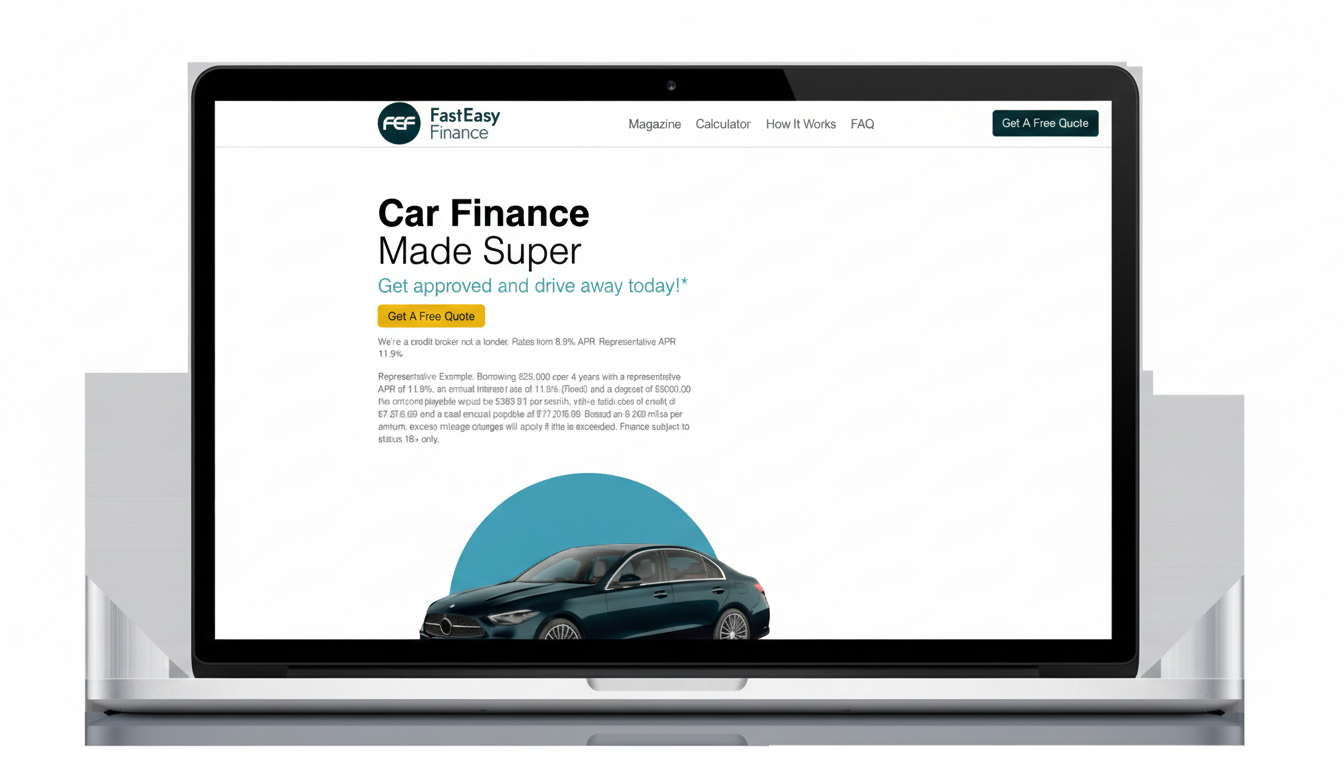
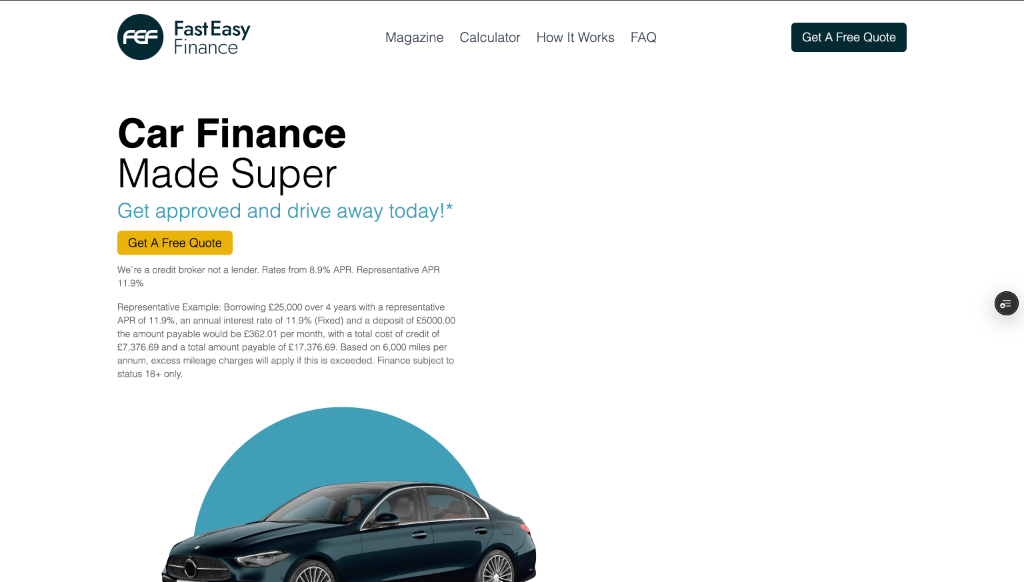
added two more projects

diff --git a/src/lib/projects-data.ts b/src/lib/projects-data.ts
@@ -6,6 +6,8 @@ import rukun from "@/assets/project/rukun.png"
 import elygance from "@/assets/project/elygance.png"
 import msp from "@/assets/project/msp-tech.png"
 import farazPharmacy from "@/assets/project/faraz-pharmacy.jpeg"
+import developerPortfolio from "@/assets/project/developer-portfolio.png"
+import malblogs from "@/assets/project/mal-blogs.png"
 
 export interface ProjectFeature {
     icon: string
@@ -29,6 +31,7 @@ export interface ProjectTechStack {
 export const PROJECT_CATEGORIES = [
     "All",
     "SaaS Platforms",
+    "Web Applications",
     "Business Applications",
     "Desktop Software",
     "Enterprise Solutions",
@@ -765,6 +768,220 @@ export const projectShowcases: ProjectShowcase[] = [
             "Company purchasing workflows are surprisingly varied. Building in configurability from the start would have reduced per-client customization work.",
         ],
         relatedSlugs: ["elygance", "maktab-one"],
+    },
+    {
+        slug: "developer-portfolio",
+        title: "Developer Portfolio",
+        tagline: "High-performance interactive portfolio built with Next.js 15 & React 19",
+        summary:
+            "A modern, high-performance personal portfolio built with Next.js 15 App Router, React 19, and Tailwind CSS. Features dynamic typewriter role animations, an interactive orbital technology stack visualization, theme synchronization, and automated inquiry dispatch via Resend.",
+        image: developerPortfolio,
+        category: "Web Application",
+        categories: ["Web Applications", "Business Applications"],
+        status: "Production",
+        role: "Full-Stack Developer",
+        timeline: "2 months",
+        teamSize: "Solo",
+        platform: "Web",
+        industry: "Developer Tools / Portfolio",
+        links: {
+            demo: "https://mustafatawabbb.vercel.app/",
+            github: "https://github.com/mustafatawab/projects-work/tree/main/my-portfolio",
+            caseStudy: "",
+        },
+        techStack: {
+            frontend: [
+                "Next.js 15",
+                "React 19",
+                "TypeScript",
+                "Tailwind CSS",
+                "Framer Motion",
+                "Radix UI",
+            ],
+            backend: ["Next.js App Router", "Resend API", "Contentful SDK"],
+            database: ["Contentful CMS"],
+            infrastructure: ["Vercel"],
+            tools: ["Git", "GitHub", "pnpm", "ESLint", "PostCSS"],
+        },
+        overview: {
+            what: "An interactive portfolio web application showcasing full-stack capabilities, animated skill ecosystems, project archives, and automated communication workflows.",
+            who: "Hiring managers, engineering leaders, and clients evaluating technical depth in Next.js, React, and modern UI engineering.",
+            businessValue:
+                "Delivers a memorable, polished first impression with 90+ Lighthouse performance scores, fluid micro-interactions, responsive design, and frictionless contact channels.",
+            primaryUsers:
+                "Recruiters, founders, and engineering teams reviewing technical projects, architecture standards, and code quality.",
+        },
+        businessProblem:
+            "Standard developer portfolios often rely on static templates that fail to demonstrate real engineering proficiency, interactive UI craftsmanship, and modern performance optimization standards.",
+        features: [
+            {
+                icon: "Sparkles",
+                title: "Interactive Hero & Orbiting Stack",
+                description:
+                    "Dynamic typewriter headline coupled with an orbital visual display of core technologies rotating smoothly around the developer profile.",
+            },
+            {
+                icon: "Palette",
+                title: "Dual Theme Engine",
+                description:
+                    "Flawless dark and light mode toggle with smooth theme transitions, tailored contrast ratios, and persistent system preference synchronization.",
+            },
+            {
+                icon: "LayoutDashboard",
+                title: "Modular Project & Skills Showcase",
+                description:
+                    "Interactive project gallery and categorized technical capabilities with smooth hover states, tags, and direct repository links.",
+            },
+            {
+                icon: "Mail",
+                title: "Direct Contact System",
+                description:
+                    "Fully functional inquiry workflow powered by Resend API and toast notifications for real-time validation and message dispatch.",
+            },
+        ],
+        architecturePreview: {
+            explanation:
+                "Next.js 15 App Router architecture with React 19 Server and Client Components. Styled using Tailwind CSS with animations powered by Framer Motion. Content and email delivery are handled via Contentful SDK and server-side Resend API routes.",
+        },
+        challengesSolved: [
+            {
+                problem:
+                    "Maintaining smooth 60fps animations across complex circular orbits and typewriter effects without layout shift or Lighthouse degradation.",
+                solution:
+                    "Utilized CSS transforms and hardware-accelerated Framer Motion variants alongside Next.js image optimization, maintaining 90+ Lighthouse scores.",
+            },
+            {
+                problem:
+                    "Preventing theme flicker and hydration mismatches across server-rendered pages during client mount.",
+                solution:
+                    "Integrated Next Themes with class-based transitions and zero-flash layout mounting to guarantee crisp rendering in both modes.",
+            },
+        ],
+        results: [
+            "90+ Lighthouse performance score on desktop and mobile",
+            "Smooth 60fps micro-interactions with zero layout shift",
+            "Automated contact workflow delivering messages via Resend",
+            "Responsive, accessible design across all screen viewports",
+        ],
+        lessonsLearned: [
+            "Combining Framer Motion with CSS custom properties allows for flexible, high-performance interactive animations.",
+            "Structuring modular presentation views keeps App Router layouts clean and easily maintainable.",
+        ],
+        metrics: [
+            { label: "Lighthouse Score", value: "90+" },
+            { label: "Framework", value: "Next.js 15" },
+            { label: "React Version", value: "v19" },
+        ],
+        relatedSlugs: ["maktab-one", "msp-tech-stack"],
+    },
+    {
+        slug: "mal-blogs",
+        title: "MAL Blogs & Finance",
+        tagline: "Dynamic headless blog & car finance platform built with Next.js 14 & Contentful CMS",
+        summary:
+            "A dynamic publishing and automotive finance platform built with Next.js 14 App Router, TypeScript, and Contentful CMS. Features dynamic headless blog delivery with rich-text rendering, interactive finance calculation tools, and optimized responsive layouts.",
+        image: malblogs,
+        category: "Web Application",
+        categories: ["Web Applications", "Business Applications"],
+        status: "Production",
+        role: "Full-Stack Developer",
+        timeline: "2 months",
+        teamSize: "Solo",
+        platform: "Web",
+        industry: "Publishing / Automotive Finance",
+        links: {
+            demo: "https://mal-blogs.vercel.app/",
+            github: "https://github.com/mustafatawab/Nextjs_projects/tree/main/mal-blogs",
+            caseStudy: "",
+        },
+        techStack: {
+            frontend: [
+                "Next.js 14",
+                "React 18",
+                "TypeScript",
+                "Tailwind CSS",
+                "Radix UI",
+                "Lucide React",
+            ],
+            backend: [
+                "Next.js App Router",
+                "Contentful Content Delivery API",
+                "Axios",
+            ],
+            database: ["Contentful Headless CMS"],
+            infrastructure: ["Vercel", "Edge CDN"],
+            tools: ["Git", "GitHub", "ESLint", "PostCSS"],
+        },
+        overview: {
+            what: "A dynamic web platform combining a headless CMS-powered editorial magazine with an interactive car finance estimation suite and customer quotation workflows.",
+            who: "Automotive buyers, UK car finance applicants, and editorial teams publishing market guides and financial advisory articles.",
+            businessValue:
+                "Empowers marketing teams to publish rich editorial content independently via Contentful without code deploys, while converting readers into finance leads with integrated calculator tools.",
+            primaryUsers:
+                "Vehicle buyers researching finance options, and content managers authoring dynamic automotive articles and guides.",
+        },
+        businessProblem:
+            "Financial services often struggle with disconnected marketing blogs and calculation tools. Hardcoding articles creates developer bottlenecks, while off-the-shelf WordPress setups suffer from sluggish load times and poor lead conversion.",
+        features: [
+            {
+                icon: "FileText",
+                title: "Headless Contentful CMS Pipeline",
+                description:
+                    "Dynamic article delivery using Contentful REST API and rich-text rendering for formatted custom embeds, headings, and imagery.",
+            },
+            {
+                icon: "Receipt",
+                title: "Interactive Finance Calculator",
+                description:
+                    "Client-side loan estimator computing representative APR, monthly repayment schedules, deposit amounts, and total payable values in real time.",
+            },
+            {
+                icon: "LayoutDashboard",
+                title: "Dynamic Magazine Hub",
+                description:
+                    "Categorized article feed with responsive card grid layouts, reading metadata, and SEO-friendly slug-based dynamic routing.",
+            },
+            {
+                icon: "Shield",
+                title: "Compliance & Disclosure Architecture",
+                description:
+                    "Integrated financial disclosures, representative loan examples, and regulatory messaging structured for UK finance guidelines.",
+            },
+        ],
+        architecturePreview: {
+            explanation:
+                "Next.js 14 App Router server components query Contentful's Content Delivery API with on-demand ISR (Incremental Static Regeneration). Client components manage finance slider states and Radix UI accordions with zero server latency.",
+        },
+        challengesSolved: [
+            {
+                problem:
+                    "Rendering complex rich-text payloads with embedded assets and custom formatting without breaking React component hierarchy or styling.",
+                solution:
+                    "Built bespoke renderer options for rich-text handling that map custom node types directly to styled Tailwind components.",
+            },
+            {
+                problem:
+                    "Ensuring precise, real-time financial calculations across variable repayment terms and interest brackets with instantaneous user feedback.",
+                solution:
+                    "Engineered an interactive math engine in TypeScript that computes amortization and APR tiers instantaneously on state change.",
+            },
+        ],
+        results: [
+            "100% headless content authoring enabling non-technical publishing",
+            "Sub-second page transitions via Next.js ISR and Edge CDN",
+            "Real-time interactive loan estimations driving quote requests",
+            "Responsive and accessible across desktop and mobile devices",
+        ],
+        lessonsLearned: [
+            "Decoupling editorial content with a headless CMS dramatically accelerates content operations without degrading frontend velocity.",
+            "Structuring rich-text renderer rules modularly simplifies long-term styling updates as design systems evolve.",
+        ],
+        metrics: [
+            { label: "CMS Engine", value: "Contentful" },
+            { label: "Framework", value: "Next.js 14" },
+            { label: "Rendering", value: "Dynamic / ISR" },
+        ],
+        relatedSlugs: ["developer-portfolio", "maktab-one"],
     },
 ]
 

diff --git a/src/lib/project.ts b/src/lib/project.ts
@@ -11,6 +11,7 @@ import rukun from "@/assets/project/rukun.png"
 import maktab from "@/assets/project/maktab-one.png"
 import pharmacy from "@/assets/project/pharmacy.png"
 import farazPharmacy from "@/assets/project/faraz-pharmacy.jpeg"
+import developerPortfolio from "@/assets/project/developer-portfolio.png"
 
 interface Testimonial {
     quote: string
@@ -212,29 +213,38 @@ export const projects: ProjectType[] = [
     },
     {
         image: malblogs,
-        title: "MAL-Blogs",
+        title: "MAL Blogs & Finance",
         slug: "mal-blogs",
         description:
-            "MAL-Blogs is a minimalistic personal blog platform where I share my development journey, technical insights, and experiments with modern tools and frameworks. Built with a clean, distraction-free design, it allows me to focus on creating and publishing content using Markdown/MDX while providing readers with a smooth reading experience.",
-        tags: ["tailwind css", "nextjs", "typescript", "Contentfull"],
+            "A dynamic publishing and automotive finance platform built with Next.js 14 App Router, TypeScript, and Contentful CMS. Features dynamic headless blog delivery with rich-text rendering, interactive finance calculation tools, and optimized responsive layouts.",
+        tags: [
+            "Next.js 14",
+            "TypeScript",
+            "Tailwind CSS",
+            "Contentful CMS",
+            "Radix UI",
+            "Axios",
+        ],
         githubLink:
             "https://github.com/mustafatawab/Nextjs_projects/tree/main/mal-blogs",
-        link: "https://mal-blogs.vercel.app",
+        demoLink: "https://mal-blogs.vercel.app/",
+        link: "https://mal-blogs.vercel.app/",
         category: "Websites",
         problem:
-            "Blogging platforms like Medium and WordPress are cluttered with distractions, ads, and complex editors - neither the writer nor the reader gets a clean experience.",
+            "Financial services often struggle with disconnected marketing blogs and calculation tools. Hardcoding articles creates developer bottlenecks, while off-the-shelf WordPress setups suffer from sluggish load times and poor lead conversion.",
         solution:
-            "Built a minimalistic, distraction-free blog platform with MDX support, syntax highlighting, and a razor focus on reading experience and content creation.",
+            "Engineered a dynamic publishing suite combining a headless Contentful CMS pipeline with an interactive client-side car finance calculation tool and UK regulatory disclosure standards.",
         results: [
-            "Sub-second page loads with Next.js static generation",
-            "Clean, typography-first reading experience",
-            "Easy content creation via MDX",
+            "100% headless content authoring enabling non-technical publishing",
+            "Sub-second page transitions via Next.js ISR and Edge CDN",
+            "Real-time interactive loan estimations driving quote requests",
+            "Responsive and accessible across desktop and mobile devices",
         ],
         features: [
-            "MDX/Markdown-based content authoring",
-            "Contentful CMS integration for content management",
-            "Code syntax highlighting with Shiki",
-            "Fast static generation with Next.js",
+            "Headless Contentful CMS integration with custom rich-text rendering",
+            "Interactive finance calculator computing loan terms and monthly repayments",
+            "Dynamic magazine article hub with categorized layouts and slug-based routing",
+            "Fully compliant financial disclosure and representative example sections",
         ],
         role: "Full-Stack Developer",
         duration: "2 months",
@@ -305,5 +315,44 @@ export const projects: ProjectType[] = [
         ],
         role: "Full-Stack Developer",
         duration: "2.5 months",
+    },
+    {
+        image: developerPortfolio,
+        title: "Developer Portfolio",
+        slug: "developer-portfolio",
+        description:
+            "A modern, high-performance developer portfolio built with Next.js 15, React 19, and Tailwind CSS. Features animated typewriter hero roles, an interactive orbital technology stack, dual theme support, and automated contact notifications via Resend.",
+        tags: [
+            "Next.js 15",
+            "React 19",
+            "TypeScript",
+            "Tailwind CSS",
+            "Framer Motion",
+            "Radix UI",
+            "Resend",
+        ],
+        githubLink:
+            "https://github.com/mustafatawab/projects-work/tree/main/my-portfolio",
+        demoLink: "https://mustafatawabbb.vercel.app/",
+        link: "https://mustafatawabbb.vercel.app/",
+        category: "Websites",
+        problem:
+            "Standard developer portfolios often rely on static templates that fail to demonstrate real engineering proficiency, interactive UI craftsmanship, and modern performance optimization standards.",
+        solution:
+            "Built a high-performance, accessible portfolio showcasing full-stack capabilities, animated skill ecosystems, and seamless communication workflows with 90+ Lighthouse performance.",
+        results: [
+            "90+ Lighthouse performance score on desktop and mobile",
+            "Smooth 60fps micro-interactions with zero layout shift",
+            "Automated contact workflow delivering messages via Resend",
+            "Responsive, accessible design across all screen viewports",
+        ],
+        features: [
+            "Interactive hero with typewriter role animations and orbiting technology stack",
+            "Dual-theme engine with system preference detection and smooth transitions",
+            "Curated project showcase with responsive galleries and direct repository links",
+            "Direct inquiry form powered by Resend and toast notifications",
+        ],
+        role: "Full-Stack Developer",
+        duration: "2 months",
     },
 ]

diff --git a/src/app/sitemap.ts b/src/app/sitemap.ts
@@ -1,5 +1,6 @@
 import { MetadataRoute } from "next"
 import { projects } from "@/lib/project"
+import { getAllProjectShowcases } from "@/lib/projects-data"
 import { getAllPostSlugs } from "@/lib/posts"
 
 export default function sitemap(): MetadataRoute.Sitemap {
@@ -11,6 +12,12 @@ export default function sitemap(): MetadataRoute.Sitemap {
             lastModified: new Date(),
             changeFrequency: "monthly",
             priority: 1,
+        },
+        {
+            url: `${baseUrl}/projects`,
+            lastModified: new Date(),
+            changeFrequency: "weekly",
+            priority: 0.9,
         },
         {
             url: `${baseUrl}/work`,
@@ -38,8 +45,15 @@ export default function sitemap(): MetadataRoute.Sitemap {
         },
     ]
 
-    const projectPages: MetadataRoute.Sitemap = projects.map((p) => ({
+    const workPages: MetadataRoute.Sitemap = projects.map((p) => ({
         url: `${baseUrl}/work/${p.slug}`,
+        lastModified: new Date(),
+        changeFrequency: "monthly",
+        priority: 0.6,
+    }))
+
+    const showcasePages: MetadataRoute.Sitemap = getAllProjectShowcases().map((p) => ({
+        url: `${baseUrl}/projects/${p.slug}`,
         lastModified: new Date(),
         changeFrequency: "monthly",
         priority: 0.6,
@@ -53,5 +67,5 @@ export default function sitemap(): MetadataRoute.Sitemap {
         priority: 0.6,
     }))
 
-    return [...staticPages, ...projectPages, ...blogPages]
+    return [...staticPages, ...workPages, ...showcasePages, ...blogPages]
 }
